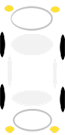
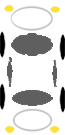
with bullets

diff --git a/carLane/js/script.js b/carLane/js/script.js
@@ -1,15 +1,124 @@
 ;(function(){
+  function PlayerCar(parentElement){
+    this.posX = 182;
+    this.posY = 655;
+    this.height = 100;
+    this.width = 65;
+    this.parentElement = parentElement;
+    this.gun = null;
+    this.gunSpeed = 6;
+    this.bulletPosY = [];
+    this.bulletPosX = [];
+    this.bulletArr = [];
+    var that = this;
+    this.init = function() {
+      var car = document.createElement('div');
+      car.style.height = this.height + 'px';
+      car.style.width = this.width + 'px';     
+      car.classList.add('playercar');
+      this.parentElement.appendChild(car);
+      this.element = car;
+      document.addEventListener('keydown', this.shiftPosition.bind(this));
+      document.addEventListener('keyup', this.fireGun.bind(this));
+      this.draw();
+
+      return this;
+    }
+    this.draw = function(){
+      this.element.style.position = 'absolute';
+      this.element.style.zIndex = 10;
+      this.carImg = document.createElement('img');
+      this.carImg.src = 'images/car1.png';
+      this.element.appendChild(this.carImg);
+      this.element.style.left = this.posX+'px';
+      this.element.style.top = this.posY+'px';
+      this.element.style.borderRadius = '20px';
+    }
+    this.fireGun = function(event){
+      var pressedKey = event.key;
+      
+      if(pressedKey=='ArrowUp' || pressedKey=='w'){
+        this.gun = document.createElement('img');
+        this.gun.setAttribute('class', 'bulletImgs');
+        this.gun.style.position = 'absolute';
+        this.gun.style.zIndex = 10;
+        this.bulletPosX.push(this.posX+25);
+        this.gun.style.left = this.posX+25+'px';
+        this.gun.src = 'images/bullet.png';
+        this.parentElement.appendChild(this.gun);
+        this.bulletPosY.push(627);
+        this.bulletArr.push(this.gun);
+      }
+    }
+    this.shiftPosition = function(event){
+      var pressedKey = event.key;
+      if((pressedKey=='d' || pressedKey=='ArrowRight') && this.posX!=289 ){
+        this.posX += 107;
+        this.element.style.left = this.posX+'px';
+      }
+      if((pressedKey=='a' || pressedKey=='ArrowLeft') && this.posX!=75){
+        this.posX -= 107;
+        this.element.style.left = this.posX+'px';
+      }
+    }
+    this.collisionDetection = function(cars, gameLoop){
+      for(var i=0; i<cars.length; i++){
+        if(cars[i].posX==this.posX && cars[i].posY+cars[i].height >= this.posY && cars[i].posY+cars[i].height<this.posY+this.height){
+          cars[i].carImg.src = 'images/blast.png';
+          this.carImg.src = 'images/blast.png';
+          clearInterval(gameLoop);
+        }     
+        else{
+          for(var j=0; j<this.bulletArr.length; j++){
+            // console.log(cars[i].posX)
+            if(cars[i].posX+25==this.bulletPosX[j] && cars[i].posY+cars[i].height>=this.bulletPosY[j] && cars[i]!=undefined){
+              console.log('bang!!')
+              // carTemp = cars[i];
+              // cars[i]=cars[0];
+              // cars[0]=carTemp;
+              // 
+              //lostCar = cars.shift();
+              cars[i].carImg.src = 'images/blast.png';
+              // 
+
+              bulletTemp = this.bulletArr[j];
+              bulletXpos = this.bulletPosX[j];
+              bulletYpos = this.bulletPosY[j];
+
+              this.bulletArr[j] = this.bulletArr[0];
+              this.bulletArr[0] = bulletTemp;
+
+              this.bulletPosX[j] = this.bulletPosX[0];
+              this.bulletPosX[0] = bulletXpos;
+
+              this.bulletPosY[j] = this.bulletPosY[0];
+              this.bulletPosY[0] = bulletYpos;
+
+              this.bulletPosX.shift();
+              this.bulletPosY.shift();
+
+              shiftedBullet = this.bulletArr.shift();
+              // lostCar.element.remove();
+              shiftedBullet.remove();
+              break;
+            }
+          }
+        }   
+      }
+    }
+  }
   function Car(parentElement){
     this.posX = 0;
     this.posY = 0;
-    this.height = 135;
+    this.height = 100;
     this.width = 65;
     this.speedXdir = 0;
     this.speedYdir = 0;
     this.color = null;
+    this.flagHolder = 0;
     this.parentElement = parentElement;
     var that = this;
-
+    
     this.init = function() {
       var car = document.createElement('div');
       car.style.height = this.height + 'px';
@@ -17,8 +126,7 @@
       car.classList.add('car');
       this.parentElement.appendChild(car);
       this.element = car;
-      // this.draw();
-
+      
       return this;
     }
 
@@ -33,33 +141,27 @@
     }
 
     this.setColor = function(colorIndex){
-      var colorTable = ['green', 'blue', 'red', 'cyan', 'magenta', 'yellow'];
+      var colorTable = ['green', 'blue', 'red', 'cyan', 'magenta', 'yellow', 'brown'];
       this.color = colorTable[colorIndex];
     }
 
     this.move = function(){
-      // this.posX += this.speedXdir;
       this.posY += this.speedYdir;
       this.element.style.top = this.posY+'px';
-      // this.draw();
     }
 
     this.draw = function(){
       this.element.style.position = 'absolute';
       this.element.style.zIndex = 10;
-      var carImg = document.createElement('img');
-      carImg.src = 'images/carSkeletonEnemy.png';
-      this.element.appendChild(carImg);
+      this.carImg = document.createElement('img');
+      this.carImg.src = 'images/car4.png';
+      this.element.style.transform = 'rotate(180deg)';
+      this.element.appendChild(this.carImg);
       this.element.style.left = this.posX+'px';
       this.element.style.top = this.posY+'px';
       this.element.style.borderRadius = '20px';
-      this.element.style.backgroundColor = this.color;
     }
 
-    this.collisionDetection = function(){
-      
-
-    }
   }
   function randomNumGen(min, max){
     return parseInt(Math.random() * (max - min) + min);
@@ -68,64 +170,98 @@
   function Game(parentElement, roadLane){
     var cars = [];
     var thatGame = this;
-    var roadLanes = [];
-    var roadLaneSpeed = 1;
-    var roadLaneYpos = 0;
-    // var GameLoopHandle = null;
+    var roadLaneSpeed = 4;
+    var roadLaneYpos = -1600;
+    var randomTime = 0;
+    var timeCount = 0;
+    var carCount = 0;
+    var laneFlag = [0, 0, 0];
     
     this.parentElement = parentElement;
+    this.roadLane = roadLane;
+
+    var myCar = new PlayerCar(parentElement).init();
 
     this.startGame = function() {
-      
-      setInterval(function(){
-        var carOpp = new Car(parentElement).init();
-        carOpp.setPosition(
-          randomNumGen(0, 3),
-          randomNumGen(400, 50)
-        );
-        
-        if(cars.length<10){
+      var gameLoop = setInterval(function(){
+        randomTime = randomNumGen(1,3);
+        chooseThis = randomNumGen(0, 10);
+        if(timeCount>=500 && timeCount%(randomTime*1000)==0){
+          carCount = 0;
+          laneFlag = [0, 0, 0];
+          var carOpp = new Car(parentElement).init();
+          carOpp.setPosition(
+            carOpp.flagHolder =randomNumGen(0, 3),
+            200
+          );
+          laneFlag[carOpp.flagHolder]=1;
           for(var i=0; i<cars.length; i++){
-            if(carOpp.posX==cars[i].posX){
-              if(Math.abs(carOpp.posY-cars[i].posY)<=2*carOpp.height){
-                carOpp.setPosition(
-                  randomNumGen(0, 3),
-                  randomNumGen(50, 1000)
-                );
-                i=0;
+            if(cars[i].posY>=800){
+              // laneFlag[cars[i].flagHolder] = 0;
+              lostCar = cars.shift();
+              lostCar.element.remove();
+            }
+          }
+          carOpp.setSpeed(5);
+          carOpp.draw();
+          cars.push(carOpp);
+          carCount++;
+          timeCount = 0;
+        }
+        else if(timeCount<60 && carCount<2 && chooseThis<5){
+          var carOpp = new Car(parentElement).init();
+          carOpp.setPosition(
+            carOpp.flagHolder =randomNumGen(0, 3),
+            200
+          );
+         
+          if(laneFlag[carOpp.flagHolder]!=1){
+            laneFlag[carOpp.flagHolder]=1;
+            for(var i=0; i<cars.length; i++){
+              if(cars[i].posY>=800){
+                lostCar = cars.shift();
+                lostCar.element.remove();
               }
             }
-            
+            carOpp.setSpeed(5);
+            carOpp.draw();
+            cars.push(carOpp);
+            carCount++;
           }
-        
-        carOpp.setColor(
-          randomNumGen(0, 6)
-        );
-        carOpp.setSpeed(1);
-        carOpp.draw();
-        cars.push(carOpp);
+          else{
+            carOpp.element.remove();
+          }
         }
+
+        myCar.collisionDetection(cars, gameLoop);
+        timeCount +=10;
         thatGame.moveCars();
       },10);
     }
+
     this.moveCars = function(){
-      
       for(var i=0; i<cars.length; i++){
         cars[i].move();
       }
-      roadLaneYpos++;
-      for(var j=0; j<3; j++){
-        console.log(roadLane[i]);
-        // roadLane[i] = roadLaneYpos+'px';
+      roadLaneYpos += roadLaneSpeed;
+      this.roadLane[0].style.top = roadLaneYpos+'px';
+      if(roadLaneYpos==0){
+        roadLaneYpos= -1600;
       }
-      
+      for(var j=0; j<myCar.bulletArr.length; j++){
+        myCar.bulletPosY[j] -= myCar.gunSpeed;
+        myCar.bulletArr[j].style.top = myCar.bulletPosY[j]+'px';
+        if(myCar.bulletPosY[j]<-28){
+          myCar.bulletPosY.shift();
+          myCar.bulletPosX.shift();
+          lostBullet = myCar.bulletArr.shift();
+          lostBullet.remove();
+        }
+      }
     }
-
-    // var gameLoop = setInterval();
   }
 
   var parentRoad = document.getElementById('lane-container');
-
   var roadLane = document.getElementsByClassName('road-dec');
   
   new Game(parentRoad, roadLane).startGame();

diff --git a/index.html b/index.html
@@ -102,9 +102,9 @@
             <tr><td>JS Assignment 3: Box Collision and Ant Smasher</td>
                 <td><a href="https://mrranjan31paudel.github.io/boxCollisionAntSmash/index.html">boxCollAntSamsh Demo</a></td>
                 <td><a href="https://github.com/mrranjan31paudel/mrranjan31paudel.github.io/tree/master/boxCollisionAntSmash">boxCollAntSamsh Code</a></td></tr>
-            <tr><td>JS Assignment 4: Car Lane Game</td>
-                <td><a href="https://mrranjan31paudel.github.io/carLane/index.html">carLane Demo</a></td>
-                <td><a href="https://github.com/mrranjan31paudel/mrranjan31paudel.github.io/tree/master/carLane">carLane Code</a></td></tr>
+            <tr><td>JS Assignment 4: Car Lane Game with Bullet Implementation</td>
+                <td><a href="https://mrranjan31paudel.github.io/carLane/index.html">carLaneBullet Demo</a></td>
+                <td><a href="https://github.com/mrranjan31paudel/mrranjan31paudel.github.io/tree/master/carLane">carLaneBullet Code</a></td></tr>
             <tr><td>JS Assignment 5: Flappy Bird</td><td><a href="#">flappyBird Demo</a></td><td><a href="#">flappyBird Code</a></td></tr>
             <tr><td>JS Assignment 6: Helix Animation</td><td><a href="#">helixAnim Demo</a></td><td><a href="#">helixAnim Code</a></td></tr>
             <tr><td>JS Final Project</td><td><a href="#">finalProj Demo</a></td><td><a href="#">finalProj Code</a></td></tr>

diff --git a/carLane/index.html b/carLane/index.html
@@ -12,13 +12,6 @@
         <div class="road-dec">
             <img src="images/roadCover.png">
         </div>
-        <div class="road-dec">
-            <img src="images/roadCover.png">
-        </div>
-        <div class="road-dec">
-            <img src="images/roadCover.png">
-        </div>
-        <!-- <div class="car"><img src="images/carSkeleton.png"></div> -->
     </div>
     
    <script src="js/script.js"></script>

diff --git a/carLane/css/style.css b/carLane/css/style.css
@@ -1,7 +1,7 @@
 #lane-container {
     position: relative;
     width: 430px;
-    height: 840px;
+    height: 800px;
     background-image: url(../images/roadPitch.png);
     overflow: hidden;
 }
